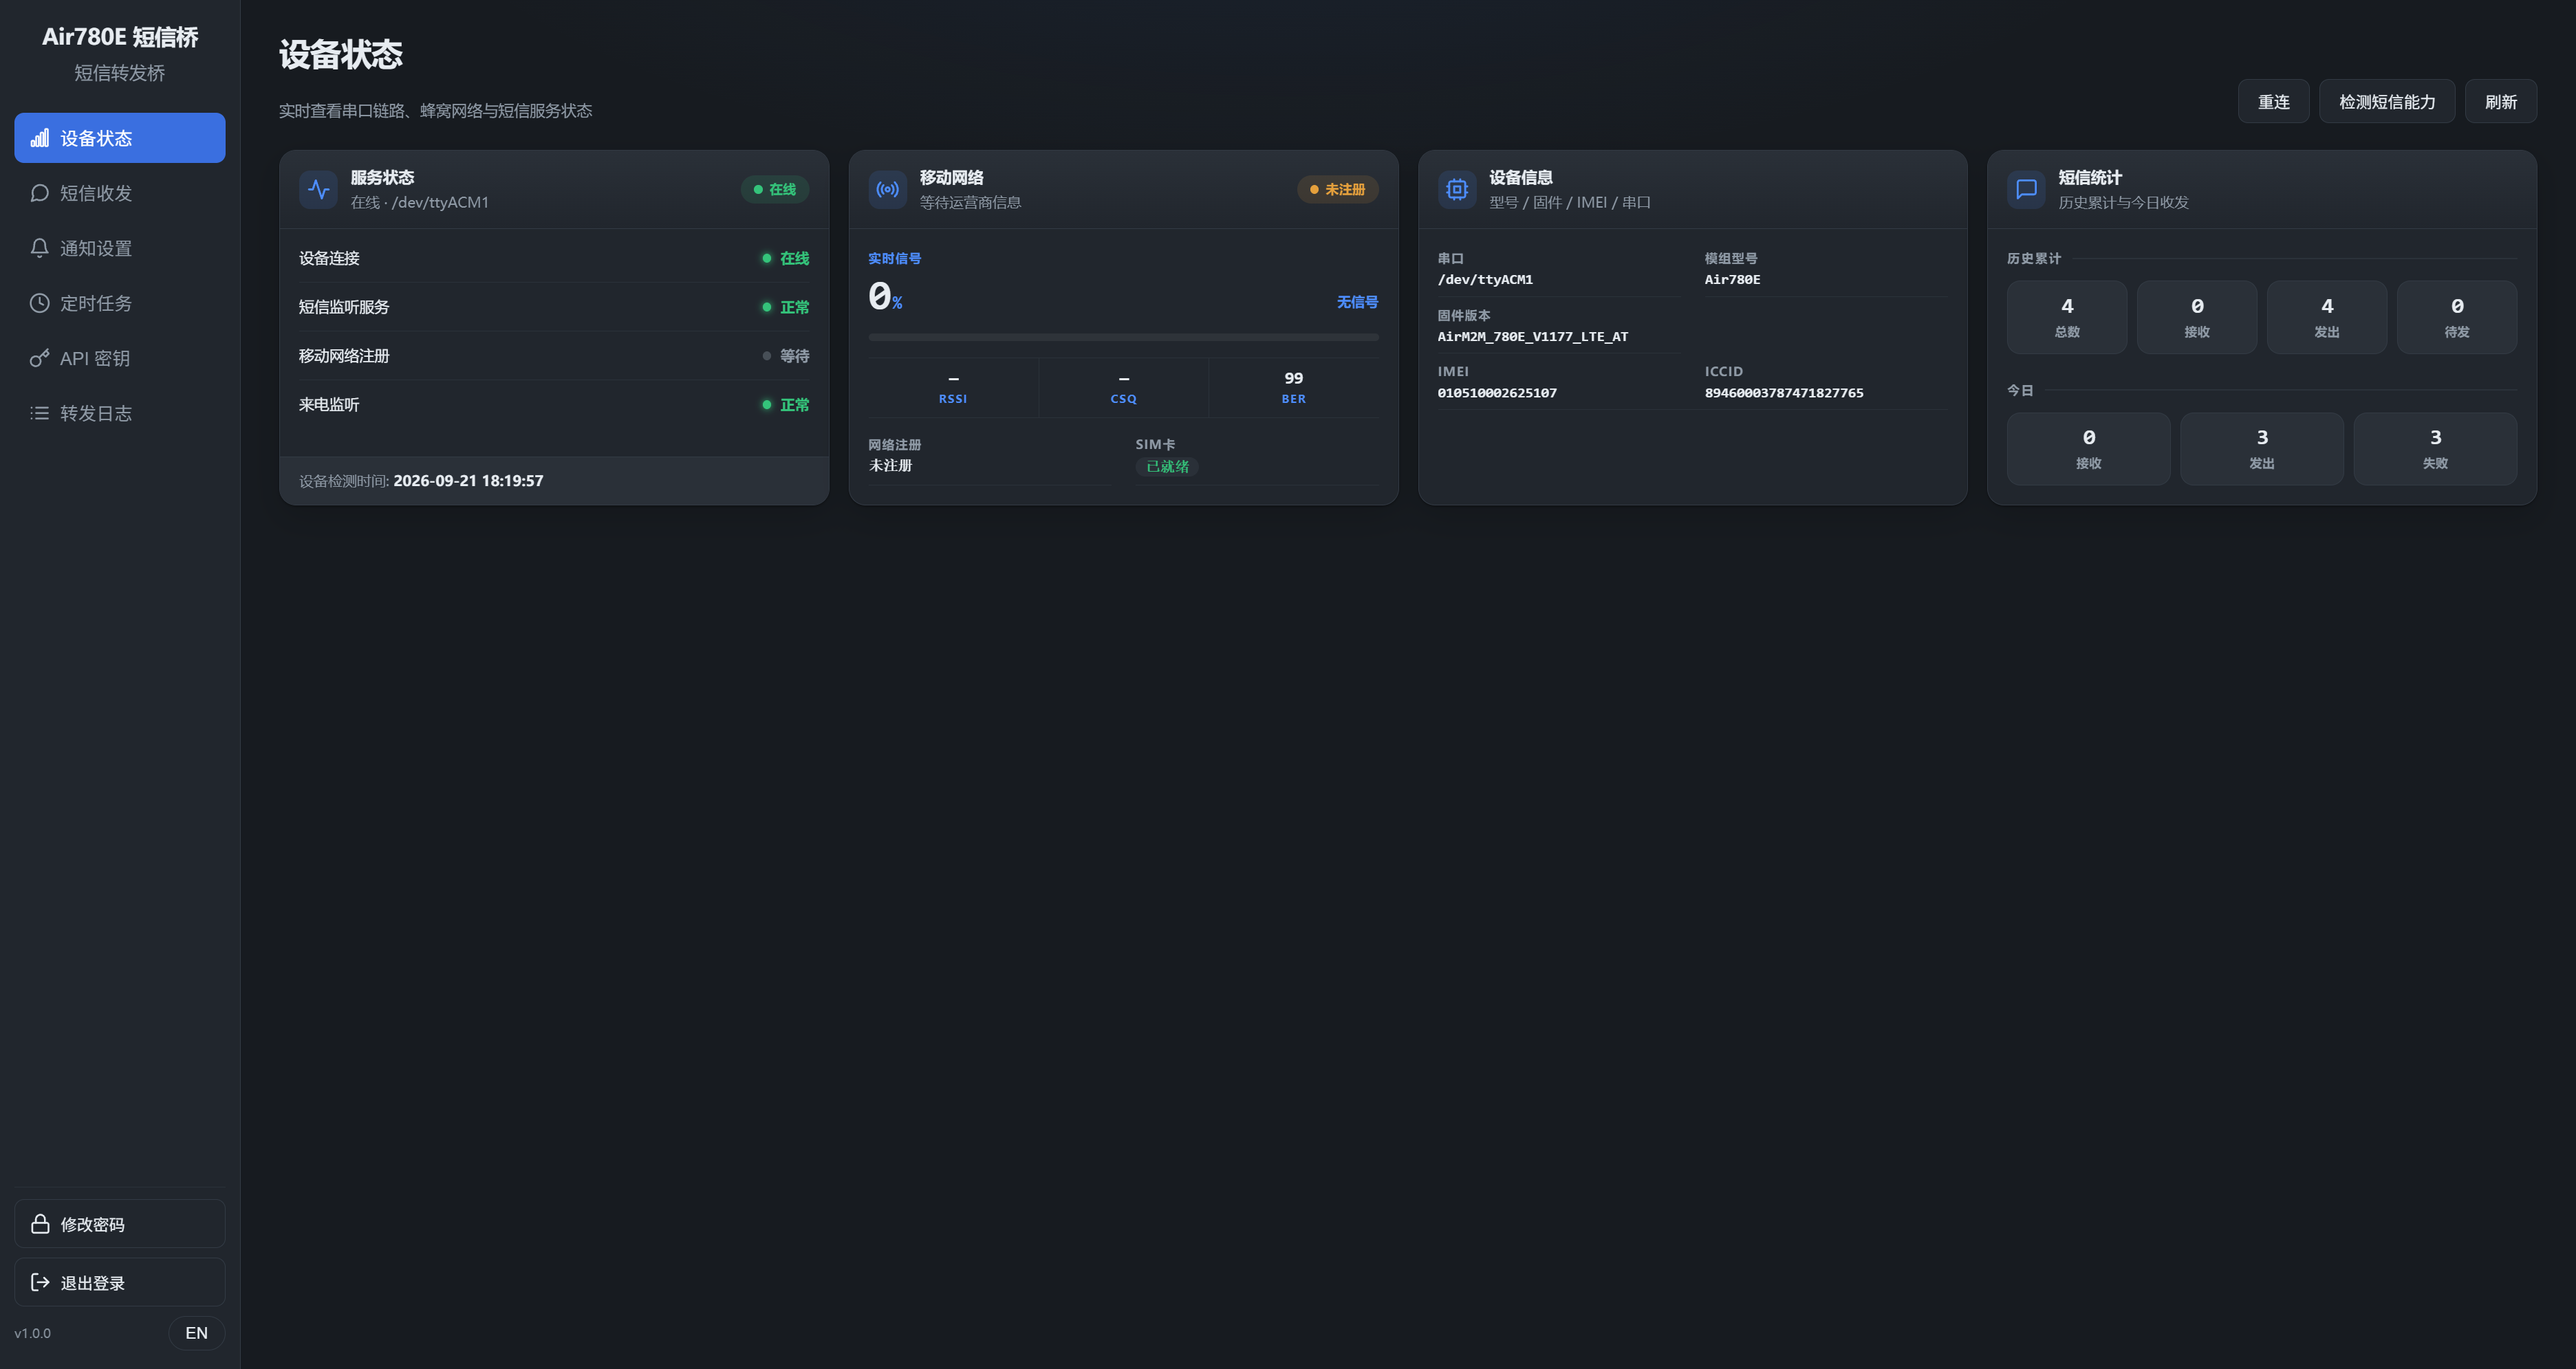
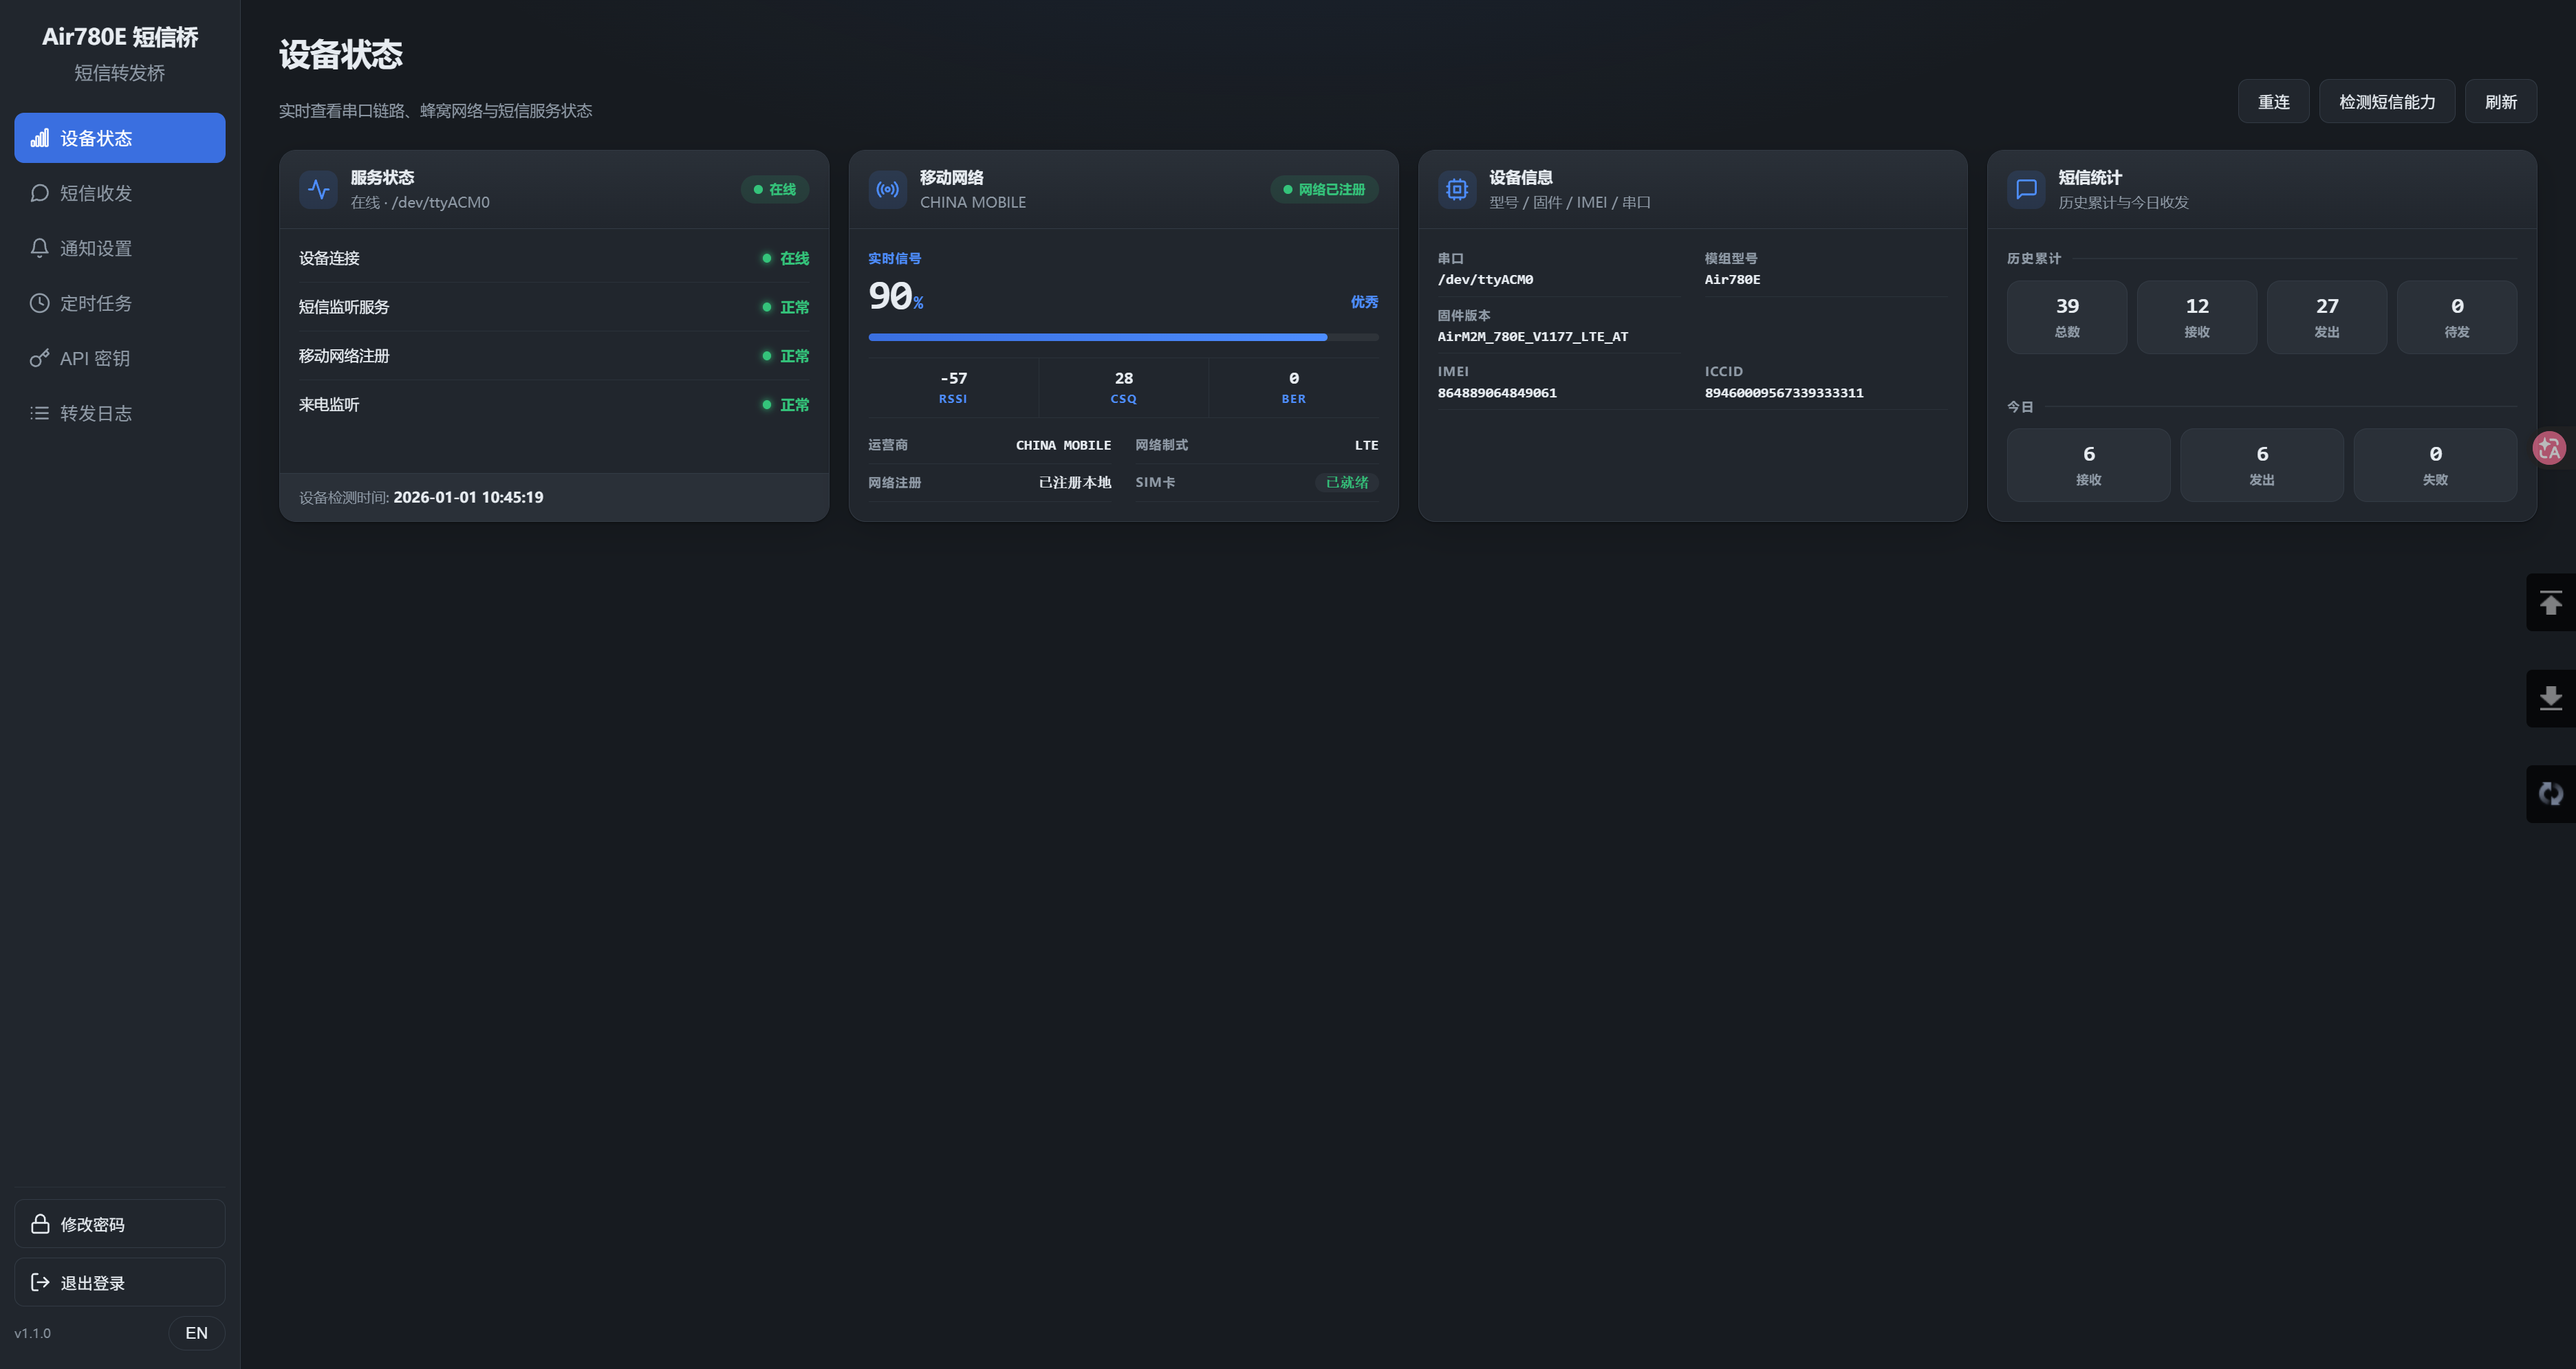
chore: set version to 1.0.0, add README screenshot

diff --git a/app/version.py b/app/version.py
@@ -4,4 +4,4 @@ Bump here on each release; it is reflected in the FastAPI metadata
 (app version) and the `/api/version` endpoint shown in the UI sidebar.
 """
 
-__version__ = "1.1.0"
+__version__ = "1.0.0"
